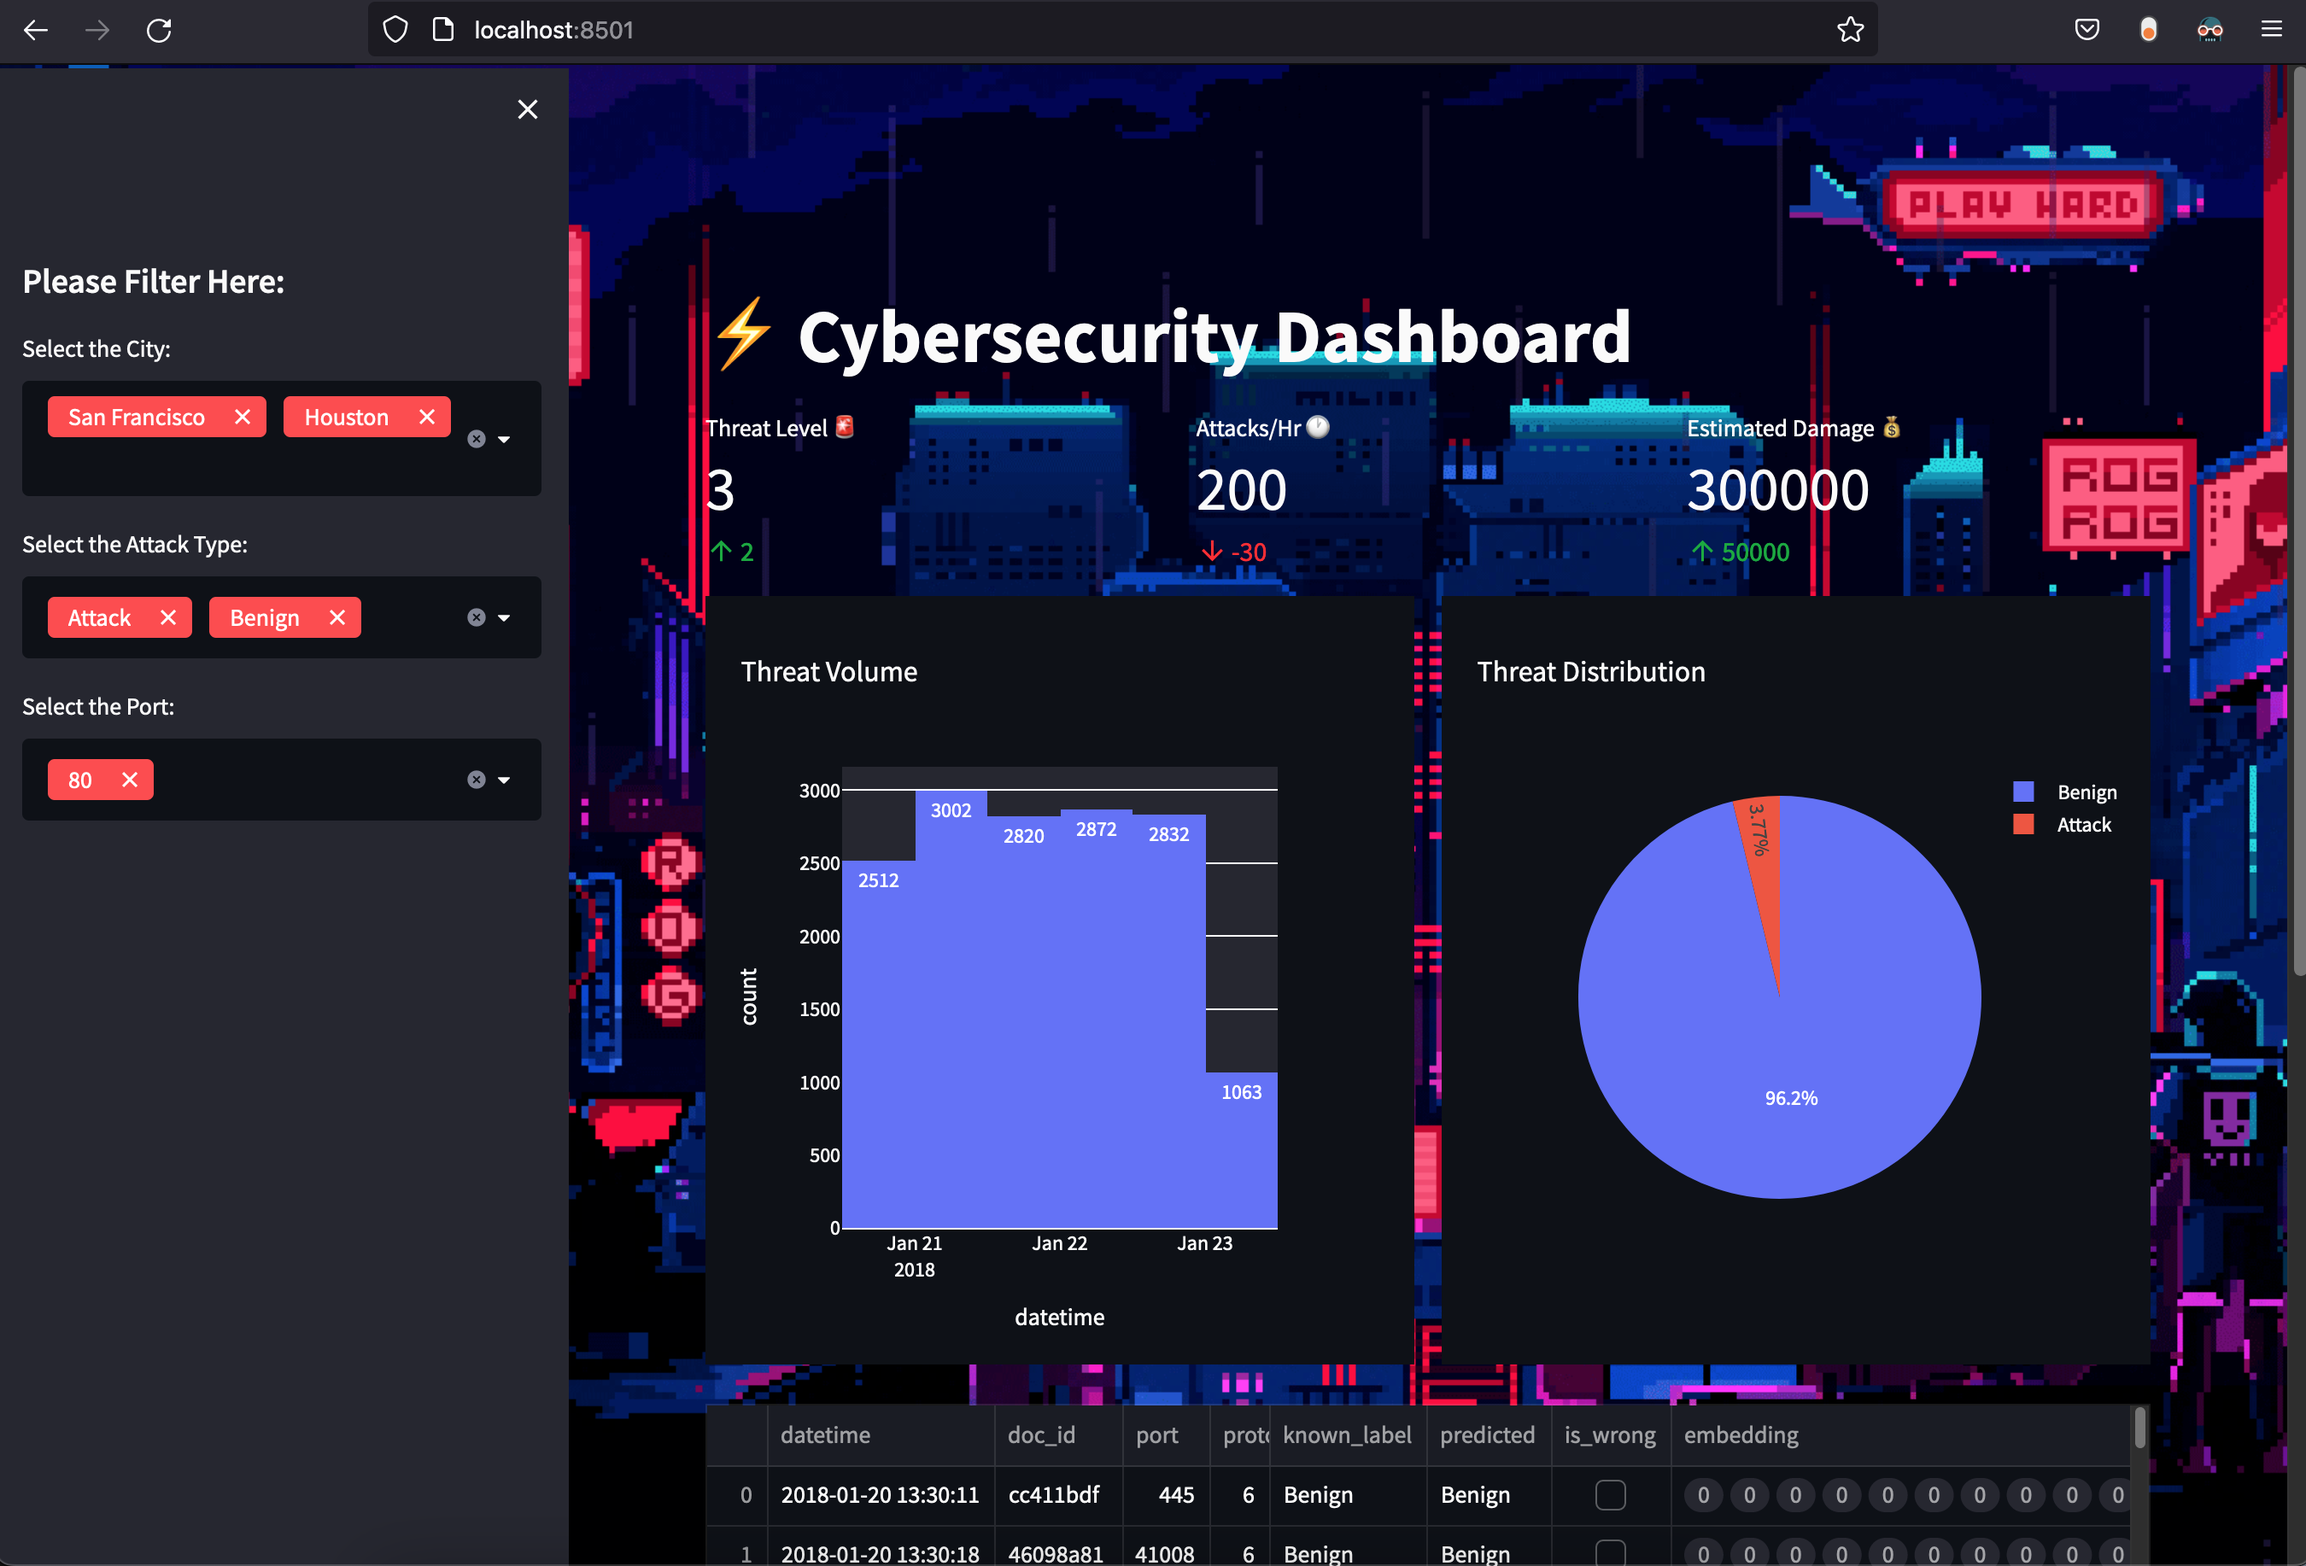
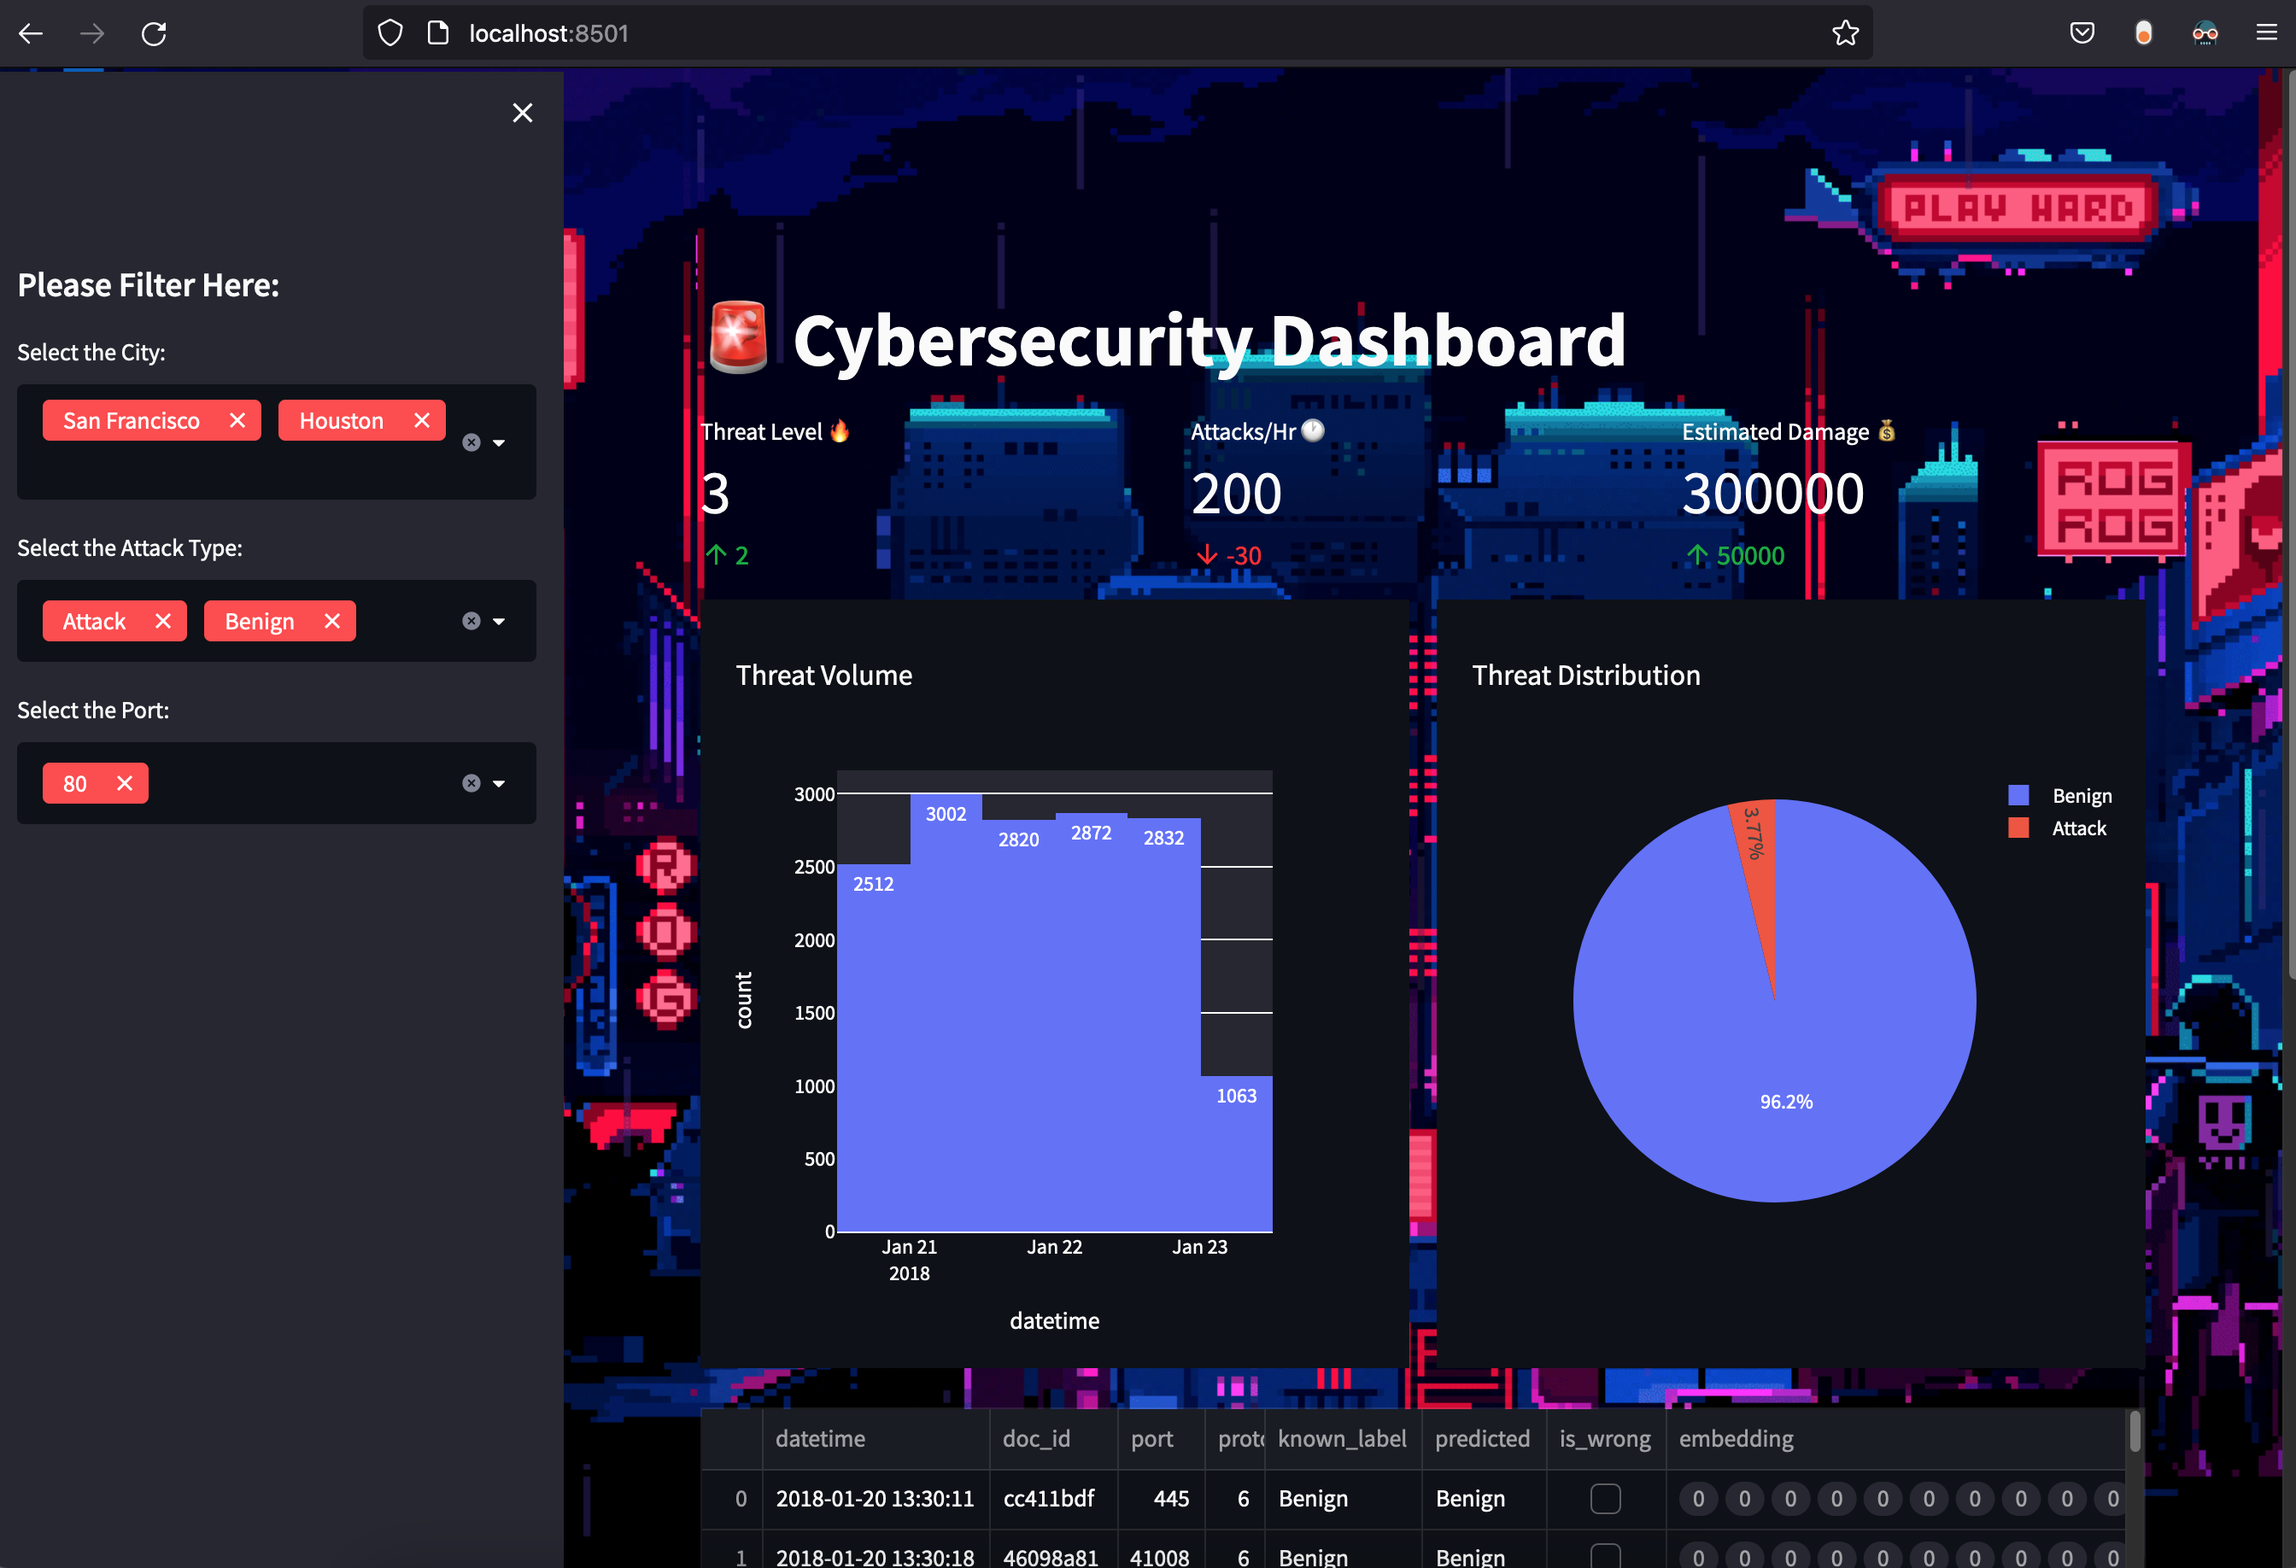
refactor: readme

diff --git a/myapp.py b/myapp.py
@@ -8,7 +8,7 @@ from helpers import get_data, set_bg_hack_url, get_data_from_excel
 # ---------- Main area
 st.set_page_config(page_title="Cybersecurity Dashboard", page_icon=":spider:", layout="wide")
 set_bg_hack_url("https://wallpapercave.com/uwp/uwp1259188.gif")
-st.title("⚡  Cybersecurity Dashboard")
+st.title("🚨  Cybersecurity Dashboard")
 
 # ---- GET DATA
 df = get_data("index")
@@ -22,7 +22,7 @@ with placeholder.container():
     kpi1, kpi2, kpi3 = st.columns(3)
 
     # fill in those three columns with respective metrics or KPIs 
-    kpi1.metric(label="Threat Level 🚨", value=3, delta=2)
+    kpi1.metric(label="Threat Level 🔥", value=3, delta=2)
     kpi2.metric(label="Attacks/Hr 🕐", value=200, delta=-30)
     kpi3.metric(label="Estimated Damage 💰", value=300000, delta=50000)
 
